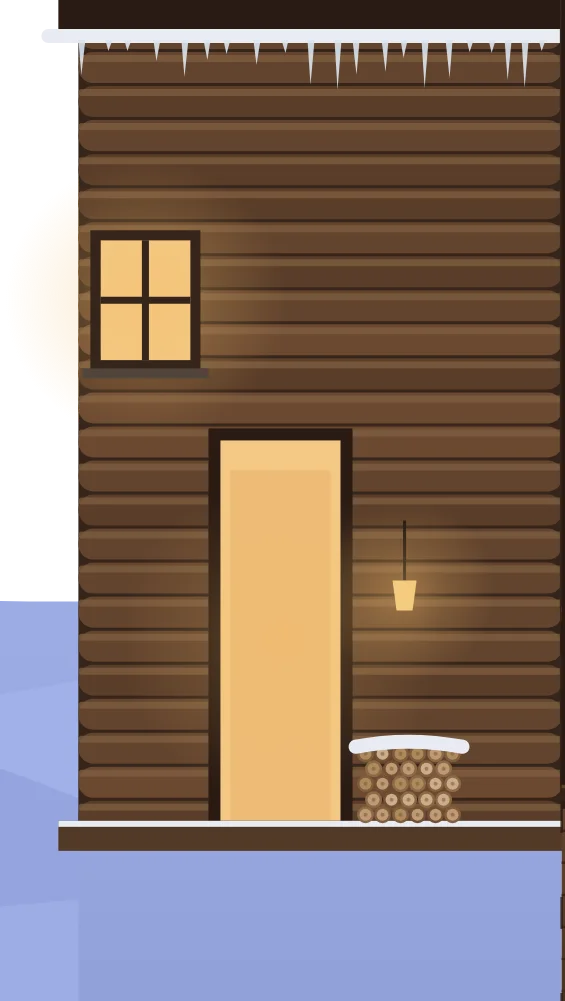
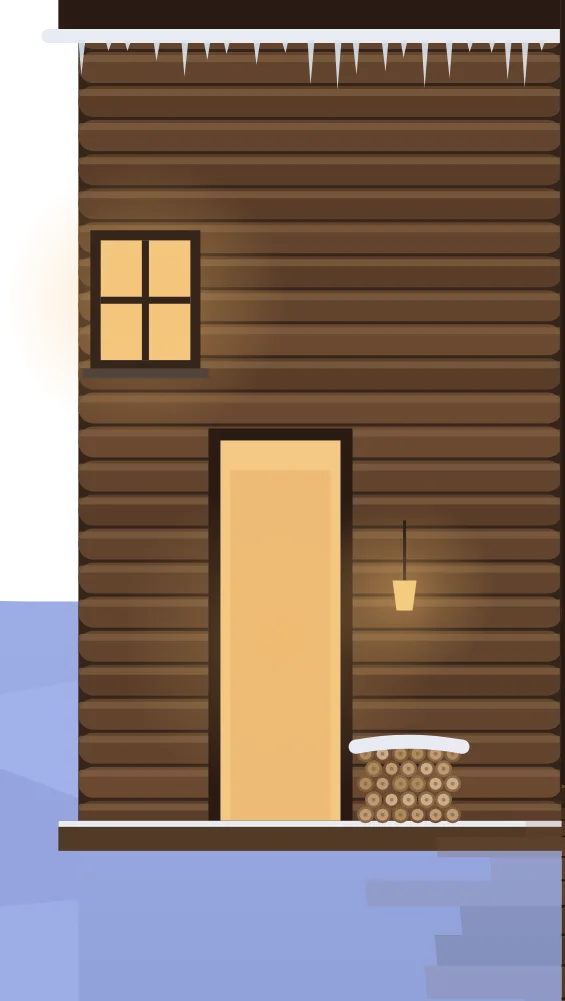
Detailed stove corner and perspective cabin floor
Claude-Session: https://claude.ai/code/session_01EHtmNVvLo6L45VFzzqfGpi

Changed region(s): [[0.7522, 0.8052, 1.0, 0.991], [0.9929, 0.991, 1.0, 1.0]]

diff --git a/assets/js/nature.js b/assets/js/nature.js
@@ -2097,10 +2097,11 @@ export function ferrisSVG(r, part = 'wheel') {
 }
 // 薪ストーブ（鋳物）：脚つきの箱、縁の張り出した天板、焚き口の扉（蝶番と取っ手）、灰受け、煙突は壁の丸い受け口へ。
 // 焚き口のガラスの奥は、おき火で下ほど明るく、薪が 2 本交差する。炎と火の粉、壁と床に広がる火の光は museum.js
-function woodStove(m, k, sw, sh) {
+function woodStove(m, k, sw, sh, room = 30) {
   const top = 80 - sh, L = m - sw / 2, gx = m - sw * .32, gy = top + sh * .3, gw = sw * .64, gh = sh * .42, id = `ws${gid++}`;
   const P = (d, f, o) => `<path d="${d}" fill="${f}"${o != null ? ` opacity="${o}"` : ''}/>`;
-  let s = rglow(m, 80 - sh * .6, 16 * k, '#ff9a4a', .45);
+  const dd = hrng(m * 3.3 + k);
+  let s = stoveSurround(m, k, sw, sh, room, dd) + rglow(m, 80 - sh * .6, 16 * k, '#ff9a4a', .45);
   s += `<defs><linearGradient id="${id}g" x1="0" y1="0" x2="0" y2="1"><stop offset="0" stop-color="#4a2014"/><stop offset=".45" stop-color="#a8431f"/><stop offset=".8" stop-color="#f08a3a"/><stop offset="1" stop-color="#ffc56a"/></linearGradient>`
     + `<linearGradient id="${id}b" x1="0" y1="0" x2="1" y2="0"><stop offset="0" stop-color="#171311"/><stop offset=".5" stop-color="#231d19"/><stop offset="1" stop-color="#1a1512"/></linearGradient></defs>`;
   // 脚（少し外に反る）
@@ -2128,14 +2129,78 @@ function woodStove(m, k, sw, sh) {
   s += `<rect x="${n1(gx - .2 * k)}" y="${n1(gy + gh + 1.2 * k)}" width="${n1(gw + .4 * k)}" height="${n1(1.1 * k)}" rx="${n1(.2 * k)}" fill="#2a2320"/><rect x="${n1(m - .6 * k)}" y="${n1(gy + gh + 1.55 * k)}" width="${n1(1.2 * k)}" height="${n1(.35 * k)}" rx="${n1(.17 * k)}" fill="#4a3b31"/>`;
   // 扉のまわりに当たる火の照り返し
   s += P(`M${n1(gx - .7 * k)} ${n1(gy + gh + .7 * k)}h${n1(gw + 1.4 * k)}v${n1(.22 * k)}h${n1(-gw - 1.4 * k)}Z`, '#ff9a4a', .35);
+  // 胴の横の空気の調整つまみと、角の鋲
+  s += `<circle cx="${n1(L + sw - 1.3 * k)}" cy="${n1(gy + gh + 1.75 * k)}" r="${n1(.32 * k)}" fill="#3a302a"/><circle cx="${n1(L + sw - 1.3 * k)}" cy="${n1(gy + gh + 1.75 * k)}" r="${n1(.14 * k)}" fill="#5a4a3e"/>`;
+  for (const [cx, cy] of [[L + .9 * k, top + 1.25 * k], [L + sw - .9 * k, top + 1.25 * k], [L + .9 * k, 78.2], [L + sw - .9 * k, 78.2]]) s += `<circle cx="${n1(cx)}" cy="${n1(cy)}" r="${n1(.13 * k)}" fill="#3a302a"/>`;
+  // 天板の上のやかん（銅。胴に夕方の火の照り返し、取っ手と注ぎ口）。湯気は museum.js
+  { const kx = m - sw * .22, ky = top + .15 * k, kw = 3.2 * k, kh = 2.2 * k;
+    s += `<ellipse cx="${n1(kx)}" cy="${n1(ky - .05 * k)}" rx="${n1(kw * .42)}" ry="${n1(.18 * k)}" fill="#1a1512" opacity=".6"/>`;
+    s += P(`M${n1(kx - kw / 2)} ${n1(ky)}Q${n1(kx - kw * .55)} ${n1(ky - kh * .8)} ${n1(kx - kw * .2)} ${n1(ky - kh)}H${n1(kx + kw * .2)}Q${n1(kx + kw * .55)} ${n1(ky - kh * .8)} ${n1(kx + kw / 2)} ${n1(ky)}Z`, '#8f5236');
+    s += P(`M${n1(kx - kw * .46)} ${n1(ky - kh * .2)}Q${n1(kx - kw * .5)} ${n1(ky - kh * .78)} ${n1(kx - kw * .18)} ${n1(ky - kh * .96)}H${n1(kx - kw * .02)}Q${n1(kx - kw * .3)} ${n1(ky - kh * .7)} ${n1(kx - kw * .26)} ${n1(ky - kh * .2)}Z`, '#b06a42', .9);
+    s += P(`M${n1(kx + kw * .12)} ${n1(ky)}Q${n1(kx + kw * .5)} ${n1(ky - kh * .3)} ${n1(kx + kw * .45)} ${n1(ky - kh * .85)}Q${n1(kx + kw * .55)} ${n1(ky - kh * .3)} ${n1(kx + kw / 2)} ${n1(ky)}Z`, '#6e3d28', .8);
+    s += `<rect x="${n1(kx - kw * .16)}" y="${n1(ky - kh - .35 * k)}" width="${n1(kw * .32)}" height="${n1(.4 * k)}" rx="${n1(.15 * k)}" fill="#6e3d28"/>`;
+    s += `<path d="M${n1(kx - kw * .34)} ${n1(ky - kh * .9)}Q${n1(kx)} ${n1(ky - kh * 1.9)} ${n1(kx + kw * .34)} ${n1(ky - kh * .9)}" stroke="#2a2320" stroke-width="${n1(.28 * k)}" fill="none" stroke-linecap="round"/>`;
+    s += P(`M${n1(kx - kw * .44)} ${n1(ky - kh * .45)}L${n1(kx - kw * .82)} ${n1(ky - kh * .95)}L${n1(kx - kw * .74)} ${n1(ky - kh * 1.02)}L${n1(kx - kw * .36)} ${n1(ky - kh * .7)}Z`, '#7d4630');
+    woodStove.kettle = [kx - kw * .8, ky - kh * 1.02];
+  }
   // 煙突：天板から上へ。途中に継ぎ目の帯、上は曲がって壁の丸い受け口へ入る
   const px = m + 2 * k, pw = 1.4 * k, py = 55;
   s += P(`M${n1(px)} ${n1(top + .2 * k)}V${n1(py)}h${n1(pw)}V${n1(top + .2 * k)}Z`, '#1d1916') + P(`M${n1(px + pw * .62)} ${n1(top + .2 * k)}V${n1(py)}h${n1(pw * .38)}V${n1(top + .2 * k)}Z`, '#15110f');
   for (const yy of [top - 2.2 * k, py + 2.4 * k]) s += `<rect x="${n1(px - .15 * k)}" y="${n1(yy)}" width="${n1(pw + .3 * k)}" height="${n1(.45 * k)}" rx="${n1(.1 * k)}" fill="#2a2522"/>`;
   s += `<circle cx="${n1(px + pw / 2)}" cy="${n1(py - .3 * k)}" r="${n1(1.55 * k)}" fill="#2a2320"/><circle cx="${n1(px + pw / 2)}" cy="${n1(py - .3 * k)}" r="${n1(1.2 * k)}" fill="#1c1714"/>`;
   s += P(`M${n1(px)} ${n1(py + .5 * k)}V${n1(py - .3 * k)}A${n1(pw / 2)} ${n1(pw / 2)} 0 0 1 ${n1(px + pw)} ${n1(py - .3 * k)}V${n1(py + .5 * k)}Z`, '#1d1916');
+  // 煙突のダンパーの取っ手と、煙突の温度計（丸い文字盤、針は火の強さのあたり）
+  const dy = (top + py) / 2;
+  s += `<rect x="${n1(px - .9 * k)}" y="${n1(dy - .12 * k)}" width="${n1(pw + 1.8 * k)}" height="${n1(.24 * k)}" rx="${n1(.12 * k)}" fill="#2a2522"/><circle cx="${n1(px + pw + .9 * k)}" cy="${n1(dy)}" r="${n1(.28 * k)}" fill="#3a302a"/>`;
+  const ty = top - 1 * k;
+  s += `<circle cx="${n1(px + pw / 2)}" cy="${n1(ty)}" r="${n1(.62 * k)}" fill="#3a302a"/><circle cx="${n1(px + pw / 2)}" cy="${n1(ty)}" r="${n1(.5 * k)}" fill="#d9c9a8"/><path d="M${n1(px + pw / 2 - .35 * k)} ${n1(ty + .1 * k)}A${n1(.36 * k)} ${n1(.36 * k)} 0 0 1 ${n1(px + pw / 2 + .35 * k)} ${n1(ty + .1 * k)}" stroke="#c7703e" stroke-width="${n1(.1 * k)}" fill="none"/><path d="M${n1(px + pw / 2)} ${n1(ty)}L${n1(px + pw / 2 + .22 * k)} ${n1(ty - .28 * k)}" stroke="#2a2320" stroke-width="${n1(.07 * k)}" stroke-linecap="round"/>`;
   return s;
 }
+// ストーブのまわり：背の壁に耐熱のレンガ（上に石の笠木）、床に石の炉台、左に薪を積んだ鉄のラック、右に火かき棒などの道具立て
+function stoveSurround(m, k, sw, sh, room, d) {
+  const top = 80 - sh;
+  let s = '';
+  // 耐熱のレンガの壁（目地は暗い色の地に、レンガを少しずつ色違いで並べる）
+  const bw = Math.min(sw + 7 * k, room * 2 - 2), bx0 = m - bw / 2, by0 = 52, by1 = 79.4, rh = .95 * k, bl = 2.3 * k;
+  s += `<rect x="${n1(bx0)}" y="${n1(by0)}" width="${n1(bw)}" height="${n1(by1 - by0)}" fill="#3a2620"/>`;
+  s += `<clipPath id="brk${gid}"><rect x="${n1(bx0)}" y="${n1(by0)}" width="${n1(bw)}" height="${n1(by1 - by0)}"/></clipPath><g clip-path="url(#brk${gid++})">`;
+  for (let y = by0 + .12, r = 0; y < by1; y += rh, r++) for (let x = bx0 - (r % 2) * bl / 2; x < bx0 + bw; x += bl) s += `<rect x="${n1(x + .1)}" y="${n2(y)}" width="${n1(bl - .2)}" height="${n2(rh - .2)}" rx=".08" fill="${['#6e4434', '#7a4a38', '#5f3a2d', '#744636', '#664033'][Math.floor(d() * 5)]}"/>`;
+  s += '</g>';
+  // レンガの下ほど、火の熱で煤けて暗い
+  const [cg, cd] = lgrad([[0, '#1a110c', 0], [1, '#1a110c', .35]]);
+  s += `<defs>${cd}</defs><rect x="${n1(bx0)}" y="${n1(top - 4)}" width="${n1(bw)}" height="${n1(by1 - top + 4)}" fill="url(#${cg})"/>`;
+  s += `<rect x="${n1(bx0 - .5)}" y="${n1(by0 - .9)}" width="${n1(bw + 1)}" height=".9" rx=".2" fill="#6f665c"/><rect x="${n1(bx0 - .5)}" y="${n1(by0 - .9)}" width="${n1(bw + 1)}" height=".25" fill="#8c8276"/>`;
+  // 石の炉台：奥が狭く手前が広い台形。厚みの面と、石の継ぎ目
+  const hb = m - (sw / 2 + 3 * k), hf = m + (sw / 2 + 3 * k), fy0 = 79.3, fy1 = 84.2, sp = 1.8 * k;
+  s += `<path d="M${n1(hb)} ${fy0}L${n1(hf)} ${fy0}L${n1(hf + sp)} ${fy1}L${n1(hb - sp)} ${fy1}Z" fill="#4a4540"/>`;
+  s += `<path d="M${n1(hb - sp)} ${fy1}L${n1(hf + sp)} ${fy1}V${n1(fy1 + .8)}H${n1(hb - sp)}Z" fill="#2c2926"/>`;
+  for (let i = 1; i < 4; i++) { const t = i / 4, xa = hb + (hf - hb) * t, xb = hb - sp + (hf - hb + sp * 2) * t; s += `<path d="M${n1(xa)} ${fy0}L${n1(xb)} ${fy1}" stroke="#34302c" stroke-width=".22"/>`; }
+  s += `<path d="M${n1(hb - sp * .5)} ${n1((fy0 + fy1) / 2)}H${n1(hf + sp * .5)}" stroke="#34302c" stroke-width=".2"/>`;
+  for (let i = 0; i < 6; i++) { const t = d(), yy = fy0 + (fy1 - fy0) * d(); s += `<ellipse cx="${n1(hb + (hf - hb) * t)}" cy="${n1(yy)}" rx="${n1(.6 + d() * 1.2)}" ry=".25" fill="${d() < .5 ? '#57514b' : '#3e3a36'}" opacity=".7"/>`; }
+  s += `<path d="M${n1(m - gwOf(sw) / 2)} ${fy0 + .2}H${n1(m + gwOf(sw) / 2)}L${n1(m + gwOf(sw) * .8)} ${fy1}H${n1(m - gwOf(sw) * .8)}Z" fill="#ff9a4a" opacity=".16"/>`;
+  // 右（道具立てのさらに右）：鉄の薪ラック（2 本の脚）に、割った薪を俵に積む（切り口は明るい木の色に年輪）。左は床のレコードの山があるので置かない
+  const lx = hf + sp + 6.2 * k;
+  if (lx - m + 2.2 * k < room - 1) {
+    const lw = 3.6 * k, ly = 83, lh = 3.4 * k;
+    for (let r = 0, row = 0; r < 3; r++) for (let i = 0; i < 3 - r; i++, row++) { const cx = lx - lw / 2 + lw * (i + .5 + r * .5) / 3, cy = ly - .5 * k - r * .82 * k - .45 * k, rr = .5 * k * (.9 + d() * .2); s += `<circle cx="${n1(cx)}" cy="${n1(cy)}" r="${n1(rr)}" fill="#6b4a30"/><circle cx="${n1(cx)}" cy="${n1(cy)}" r="${n1(rr * .78)}" fill="#c69a64"/><circle cx="${n1(cx)}" cy="${n1(cy)}" r="${n1(rr * .45)}" fill="none" stroke="#a87c4c" stroke-width="${n1(.06 * k)}"/><path d="M${n1(cx - rr * .1)} ${n1(cy - rr * .1)}l${n1(rr * .5)} ${n1(-rr * .35)}" stroke="#8a6440" stroke-width="${n1(.05 * k)}"/>`; }
+    for (const sx of [-1, 1]) s += `<path d="M${n1(lx + sx * lw * .55)} ${n1(ly)}V${n1(ly - lh * .72)}" stroke="#1d1916" stroke-width="${n1(.22 * k)}" stroke-linecap="round"/>`;
+    s += `<path d="M${n1(lx - lw * .55)} ${n1(ly - .1)}Q${n1(lx)} ${n1(ly + .5)} ${n1(lx + lw * .55)} ${n1(ly - .1)}" stroke="#1d1916" stroke-width="${n1(.22 * k)}" fill="none"/>`;
+    s += `<ellipse cx="${n1(lx)}" cy="${n1(ly + .2)}" rx="${n1(lw * .6)}" ry=".35" fill="#1a110a" opacity=".45"/>`;
+  }
+  // 右：道具立て（火かき棒・ほうき・シャベル）
+  const tx = hf + sp + 1.6 * k;
+  if (tx - m < room - 1) {
+    const ty = 82.6, th = 8 * k;
+    s += `<ellipse cx="${n1(tx)}" cy="${n1(ty + .2)}" rx="${n1(1.1 * k)}" ry=".3" fill="#1a110a" opacity=".45"/><rect x="${n1(tx - .9 * k)}" y="${n1(ty - .3 * k)}" width="${n1(1.8 * k)}" height="${n1(.35 * k)}" rx="${n1(.15 * k)}" fill="#1d1916"/>`;
+    s += `<path d="M${n1(tx)} ${n1(ty - .2 * k)}V${n1(ty - th)}" stroke="#1d1916" stroke-width="${n1(.16 * k)}"/><circle cx="${n1(tx)}" cy="${n1(ty - th - .25 * k)}" r="${n1(.3 * k)}" fill="#3a302a"/>`;
+    s += `<path d="M${n1(tx - .9 * k)} ${n1(ty - th * .82)}H${n1(tx + .9 * k)}" stroke="#1d1916" stroke-width="${n1(.14 * k)}"/>`;
+    s += `<path d="M${n1(tx - .6 * k)} ${n1(ty - th * .82)}L${n1(tx - .75 * k)} ${n1(ty - .9 * k)}" stroke="#2a2522" stroke-width="${n1(.1 * k)}"/><path d="M${n1(tx - .75 * k)} ${n1(ty - .9 * k)}l${n1(-.3 * k)} ${n1(.5 * k)}" stroke="#2a2522" stroke-width="${n1(.1 * k)}"/>`;
+    s += `<path d="M${n1(tx + .6 * k)} ${n1(ty - th * .82)}L${n1(tx + .7 * k)} ${n1(ty - 1.8 * k)}" stroke="#6b4a30" stroke-width="${n1(.12 * k)}"/><path d="M${n1(tx + .4 * k)} ${n1(ty - 1.9 * k)}h${n1(.6 * k)}l${n1(.2 * k)} ${n1(1.3 * k)}h${n1(-1 * k)}Z" fill="#8a6a3e"/>`;
+    s += `<path d="M${n1(tx + .1 * k)} ${n1(ty - th * .82)}L${n1(tx + .15 * k)} ${n1(ty - 1.2 * k)}" stroke="#2a2522" stroke-width="${n1(.1 * k)}"/><path d="M${n1(tx - .25 * k)} ${n1(ty - 1.3 * k)}h${n1(.8 * k)}l${n1(-.1 * k)} ${n1(.9 * k)}h${n1(-.6 * k)}Z" fill="#2a2522"/>`;
+  }
+  return s;
+}
+function gwOf(sw) { return sw * .64; }
 // 薪ストーブの火（揺れる炎と、舞い上がる火の粉）
 export function fireSVG() {
   let s = '<svg viewBox="-4 -12 8 13" xmlns="http://www.w3.org/2000/svg">';
@@ -2332,12 +2397,28 @@ function cabinWallDetail(x0, x1) {
   return s;
 }
 // 小屋の床：板ごとの色むら（明るい板・暗い板）と、継ぎ目の釘
-function cabinFloorDetail(x0, x1) {
-  const d = hrng(x0 * 6.7 + x1);
-  let s = '';
-  for (let y = 80, r = 0; y < 106; y += 3.2, r++) for (let x = x0 + d() * 10; x < x1; x += 10 + d() * 18) {
-    const w = 8 + d() * 16; s += `<rect x="${n1(x)}" y="${n1(y + .15)}" width="${n1(w)}" height="3" fill="${d() < .55 ? '#8a6444' : '#2e1f14'}" opacity="${n1(.1 + d() * .18)}"/>`;
-    if (d() < .5) s += `<circle cx="${n1(x + .5)}" cy="${n1(y + .8)}" r=".13" fill="#1a110a"/><circle cx="${n1(x + .5)}" cy="${n1(y + 2.4)}" r=".13" fill="#1a110a"/>`;
+// 床板（遠近）：壁ぎわの板は細く、手前ほど太く見える。板の長さも手前ほど長く、継ぎ目は目の高さの消失点へ向かって傾く
+// （消失点は立ち止まる場所ごとの画面の真ん中。立ち止まる場所の中間では傾きを 0 に戻して、つなぎ目が目立たないように）
+function cabinFloorDetail(x0, x1, W) {
+  const d = hrng(x0 * 6.7 + x1), n = 11, VY = 36, rows = Array.from({ length: n + 1 }, (_, i) => 80 + 27 * Math.pow(i / n, 1.55));
+  const persp = (x, yA, yB) => { const vx = Math.round((x - W / 2) / W) * W + W / 2, dx = x - vx, c = Math.cos(Math.PI * dx / W); return x + dx * c * c * ((yB - VY) / (yA - VY) - 1); };
+  // 壁ぎわの影（奥ほど暗い）
+  const [ag, ad] = lgrad([[0, '#1d130c', .55], [1, '#1d130c', 0]]);
+  let s = `<defs>${ad}</defs><rect x="${n1(x0)}" y="80" width="${n1(x1 - x0)}" height="6" fill="url(#${ag})"/>`;
+  for (let r = 0; r < n; r++) {
+    const yA = rows[r], yB = rows[r + 1], h = yB - yA, tones = ['#8a6444', '#2e1f14', '#7a5638', '#3a2718'];
+    let x = x0 - d() * h * 8;
+    while (x < x1) {
+      const L = h * (7 + d() * 6), xb = x + L;
+      // 板 1 枚（色むら）
+      s += `<path d="M${n1(x)} ${n2(yA)}L${n1(xb)} ${n2(yA)}L${n1(persp(xb, yA, yB))} ${n2(yB)}L${n1(persp(x, yA, yB))} ${n2(yB)}Z" fill="${tones[Math.floor(d() * 4)]}" opacity="${n2(.06 + d() * .16)}"/>`;
+      // 継ぎ目（端）と、釘 2 つ
+      s += `<path d="M${n1(xb)} ${n2(yA)}L${n1(persp(xb, yA, yB))} ${n2(yB)}" stroke="#2e2016" stroke-width="${n2(.1 + h * .05)}" opacity=".85"/>`;
+      if (d() < .6) for (const t of [.28, .72]) { const yy = yA + h * t, xx = persp(xb, yA, yy) - .25 - h * .08; s += `<circle cx="${n1(xx)}" cy="${n2(yy)}" r="${n2(.05 + h * .035)}" fill="#1a110a"/>`; }
+      x = xb;
+    }
+    // 板と板の境（下の縁は少し暗く、上の縁はほんのり明るい）
+    s += `<path d="M${n1(x0)} ${n2(yB)}H${n1(x1)}" stroke="#2e1d12" stroke-width="${n2(.1 + h * .06)}"/><path d="M${n1(x0)} ${n2(yA + .08 + h * .03)}H${n1(x1)}" stroke="#8a6444" stroke-width="${n2(.05 + h * .025)}" opacity=".35"/>`;
   }
   return s;
 }
@@ -2536,11 +2617,11 @@ export function sceneAttic(W, stops, { birdGap = -1 } = {}) {
   mid += `<rect x="${n1(wallX)}" y="-5" width="3" height="87" fill="#2e2016"/>`;
   const [flG, flD] = lgrad([[0, '#6b4a30'], [1, '#4a3322']]);
   mid += `<defs>${flD}</defs><rect x="${n1(wallX)}" y="80" width="${n1(mw - wallX + 5)}" height="26" fill="url(#${flG})"/><rect x="${n1(wallX)}" y="80" width="${n1(mw - wallX + 5)}" height=".8" fill="#2e2016"/>`;
-  for (let y = 83; y < 106; y += 3.2) mid += `<path d="M${n1(wallX)} ${n1(y)}H${n1(mw + 5)}" stroke="#3f2a1c" stroke-width=".25"/>`;
   // 床板の継ぎ目と木目、巾木、額灯が床に落とす光
-  for (let y = 80, r = 0; y < 106; y += 3.2, r++) for (let x = wallX + (r % 3) * 7; x < mw + 5; x += R(16, 24)) mid += `<path d="M${n1(x)} ${n1(y)}v3.2" stroke="#2e2016" stroke-width=".25" opacity=".8"/>`;
+  // 床板は遠近をつけて描く（cabinFloorDetail）。前の等間隔の継ぎ目は、乱数の呼び出しだけ残す
+  for (let y = 80, r = 0; y < 106; y += 3.2, r++) for (let x = wallX + (r % 3) * 7; x < mw + 5; x += R(16, 24));
   for (let i = 0; i < (mw - wallX) / 3; i++) { const x = R(wallX, mw), y = R(81, 105); mid += `<path d="M${n1(x)} ${n1(y)}q${n1(R(2, 4))} ${n1(R(-.3, .3))} ${n1(R(5, 9))} 0" stroke="#7a5638" stroke-width=".18" fill="none" opacity=".45"/>`; }
-  mid += cabinFloorDetail(wallX, mw + 5);
+  mid += cabinFloorDetail(wallX, mw + 5, W);
   mid += `<rect x="${n1(wallX)}" y="78.4" width="${n1(mw - wallX + 5)}" height="1.6" fill="#3a2718"/><rect x="${n1(wallX)}" y="78.4" width="${n1(mw - wallX + 5)}" height=".35" fill="#7a5638" opacity=".7"/>`;
   for (let k = 2; k < stops; k++) mid += rglow(workX(k), 86, 22, '#ffcf85', .16);
   // ラグ：部屋の奥まで続く 1 本の長い敷物（ランナー）。縁取り、内側の二重線、菱形の模様、両端のフリンジ
@@ -2594,7 +2675,7 @@ export function sceneAttic(W, stops, { birdGap = -1 } = {}) {
     if (shW >= 10) mid += shelf(m - shW / 2, 26, shW) + shelf(m - shW / 2, 40, shW);
     // 薪ストーブは床に置き、煙突は壁ぞいに天井へ（すき間が狭いときは置かない）
     // 薪ストーブ（鋳物の箱に脚、焚き口のガラス、上に煙突）。家具に合わせて大きめに
-    if (gap >= 11) { const k = 2.1, sw = 8 * k, sh = 9 * k; mid += woodStove(m, k, sw, sh); stove = [m, 80, k]; }
+    if (gap >= 11) { const k = 2.1, sw = 8 * k, sh = 9 * k; mid += woodStove(m, k, sw, sh, gap / 2); stove = [m, 80, k, woodStove.kettle]; }
   }
   // 壁に掛けたスケートボード：作品の枠にかからないときだけ
   const sk = [[wallX + 8, 26, '#d4d0b5', '#b8604a'], [wallX + 14, 27, '#3f5d59', '#e2b36f']];

diff --git a/assets/js/museum.js b/assets/js/museum.js
@@ -716,6 +716,8 @@ function buildLiving(r) {
     const sheet = (cls, pos) => `<i class="living swash${cls}" style="left:-5vh;top:${((D.foam - 1.6) * U).toFixed(1)}px;width:${mw + 10}vh;height:6vh;background-image:url(&quot;${tile}&quot;);background-size:48vh 6vh;background-position:${pos}vh 0"></i>`;
     P.insertAdjacentHTML('beforeend', `<i class="living wetshine" style="left:-5vh;top:${((D.foam + .8) * U).toFixed(1)}px;width:${mw + 10}vh;height:3.2vh"></i>` + sheet('', 0) + sheet(' s2', -19));
   }
+  // やかんの注ぎ口から湯気
+  if (D.stove && D.stove[3]) { const [x, y] = D.stove[3]; P.insertAdjacentHTML('beforeend', `<div class="living steam kettle" style="left:${((x - 1.6) * U).toFixed(1)}px;top:${((y - 6) * U).toFixed(1)}px"><i></i><i></i><i></i></div>`); }
   if (D.mug) { const [x, y] = D.mug; P.insertAdjacentHTML('beforeend', `<div class="living steam" style="left:${((x - 1) * U).toFixed(1)}px;top:${((y - 4) * U).toFixed(1)}px"><i></i><i></i><i></i></div>`); }
   // 薪ストーブの火の光：焚き口から壁へ広がる光と、床に落ちる光だまりが、炎に合わせて不規則に揺らめく（周期の違う 2 枚を重ねて、同じ揺れのくり返しに見えないように）
   if (D.stove) { const [x, y, k = 1] = D.stove, sh = 9 * k, gy = y - sh + sh * .51, ww = 44 * k * (W < 80 ? .8 : 1), wh = 34 * k, fw2 = 30 * k * (W < 80 ? .8 : 1);

diff --git a/assets/css/museum.css b/assets/css/museum.css
@@ -993,6 +993,7 @@ body.choosing .loader-choose { opacity: 1; transform: none; pointer-events: auto
 /* マグの湯気 */
 .steam { width: 2vh; height: 4vh; }
 .steam i { position: absolute; left: 50%; bottom: 0; width: .5vh; height: 1.6vh; border-radius: 50%; background: rgba(255, 250, 242, .55); animation: steam 2.8s ease-out infinite; }
+.steam.kettle { width: 3.2vh; height: 6vh; } .steam.kettle i { width: .8vh; height: 2.2vh; background: rgba(255, 248, 236, .4); animation-duration: 3.4s; }
 .steam i:nth-child(2) { animation-delay: -.9s; left: 30%; } .steam i:nth-child(3) { animation-delay: -1.8s; left: 70%; }
 @keyframes steam { 0% { transform: translate(-50%, 0) scale(.6); opacity: 0; } 25% { opacity: .7; } 100% { transform: translate(-50%, -3.2vh) scale(1.6); opacity: 0; } }
 /* 跳ねる鯉：弧を描いて水面へ */
